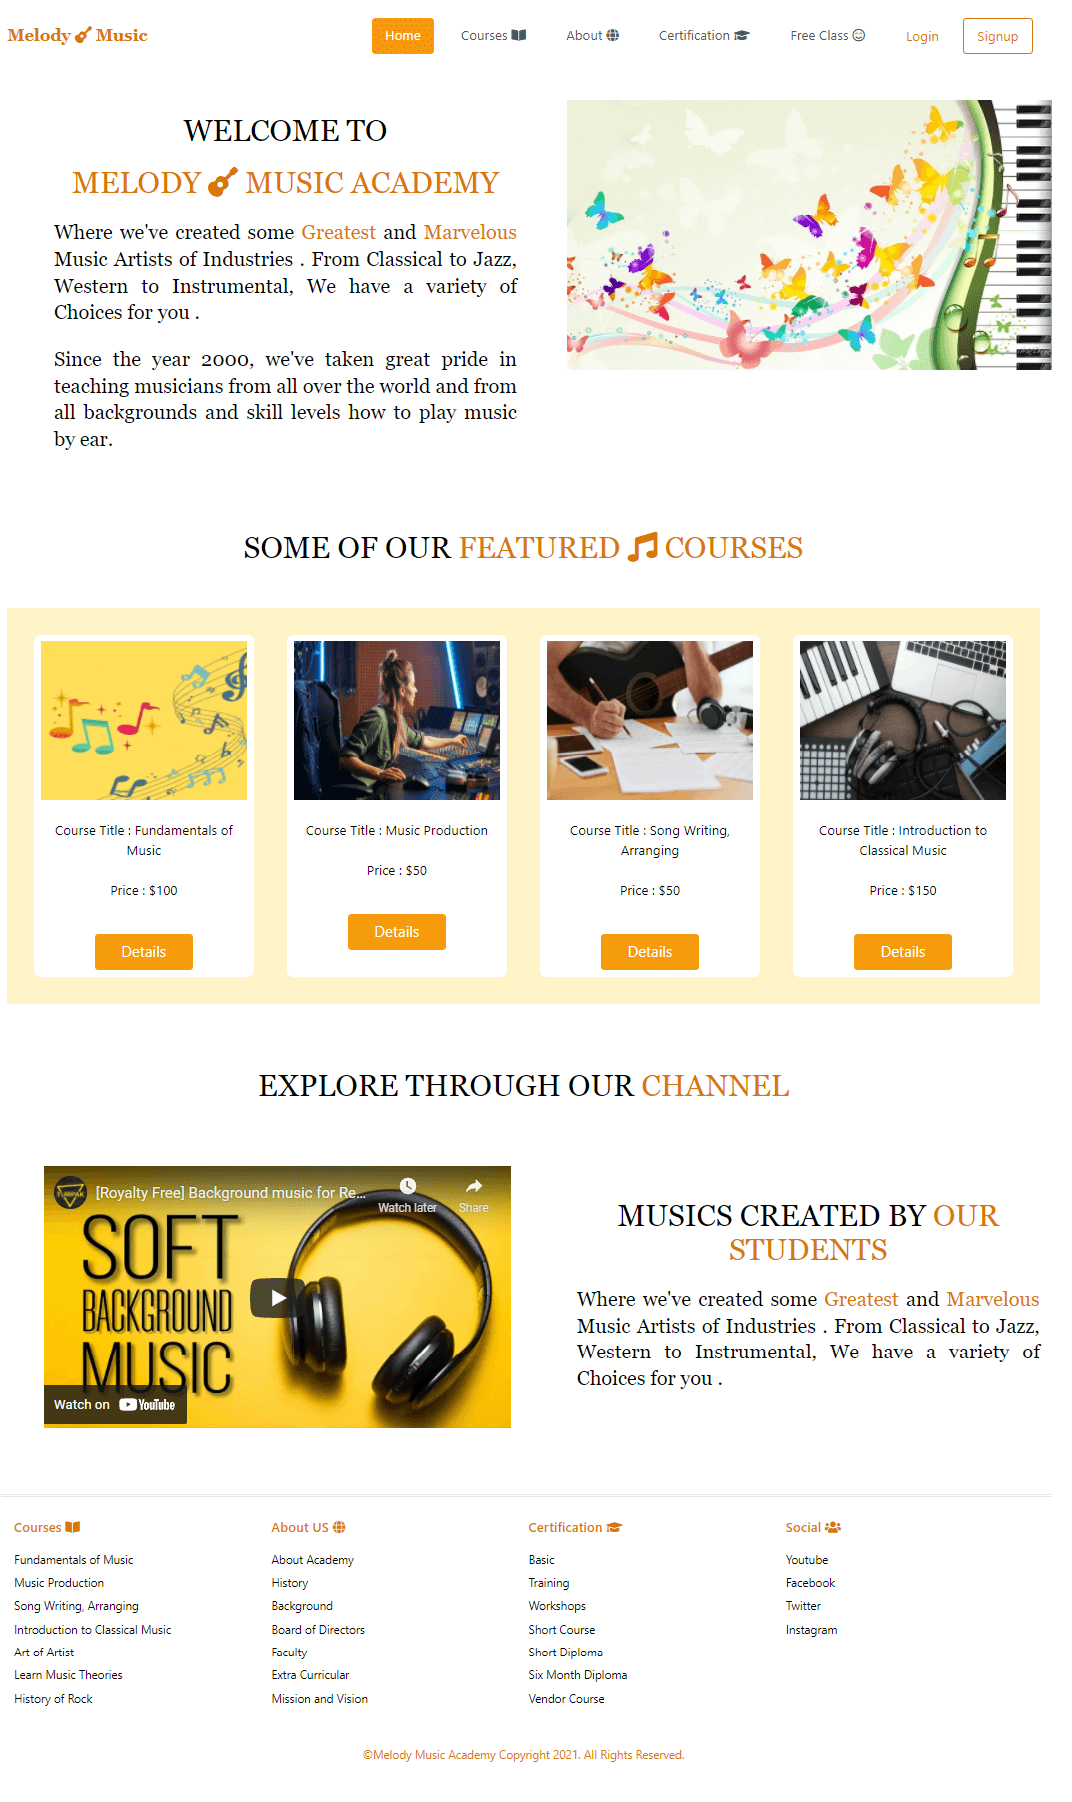
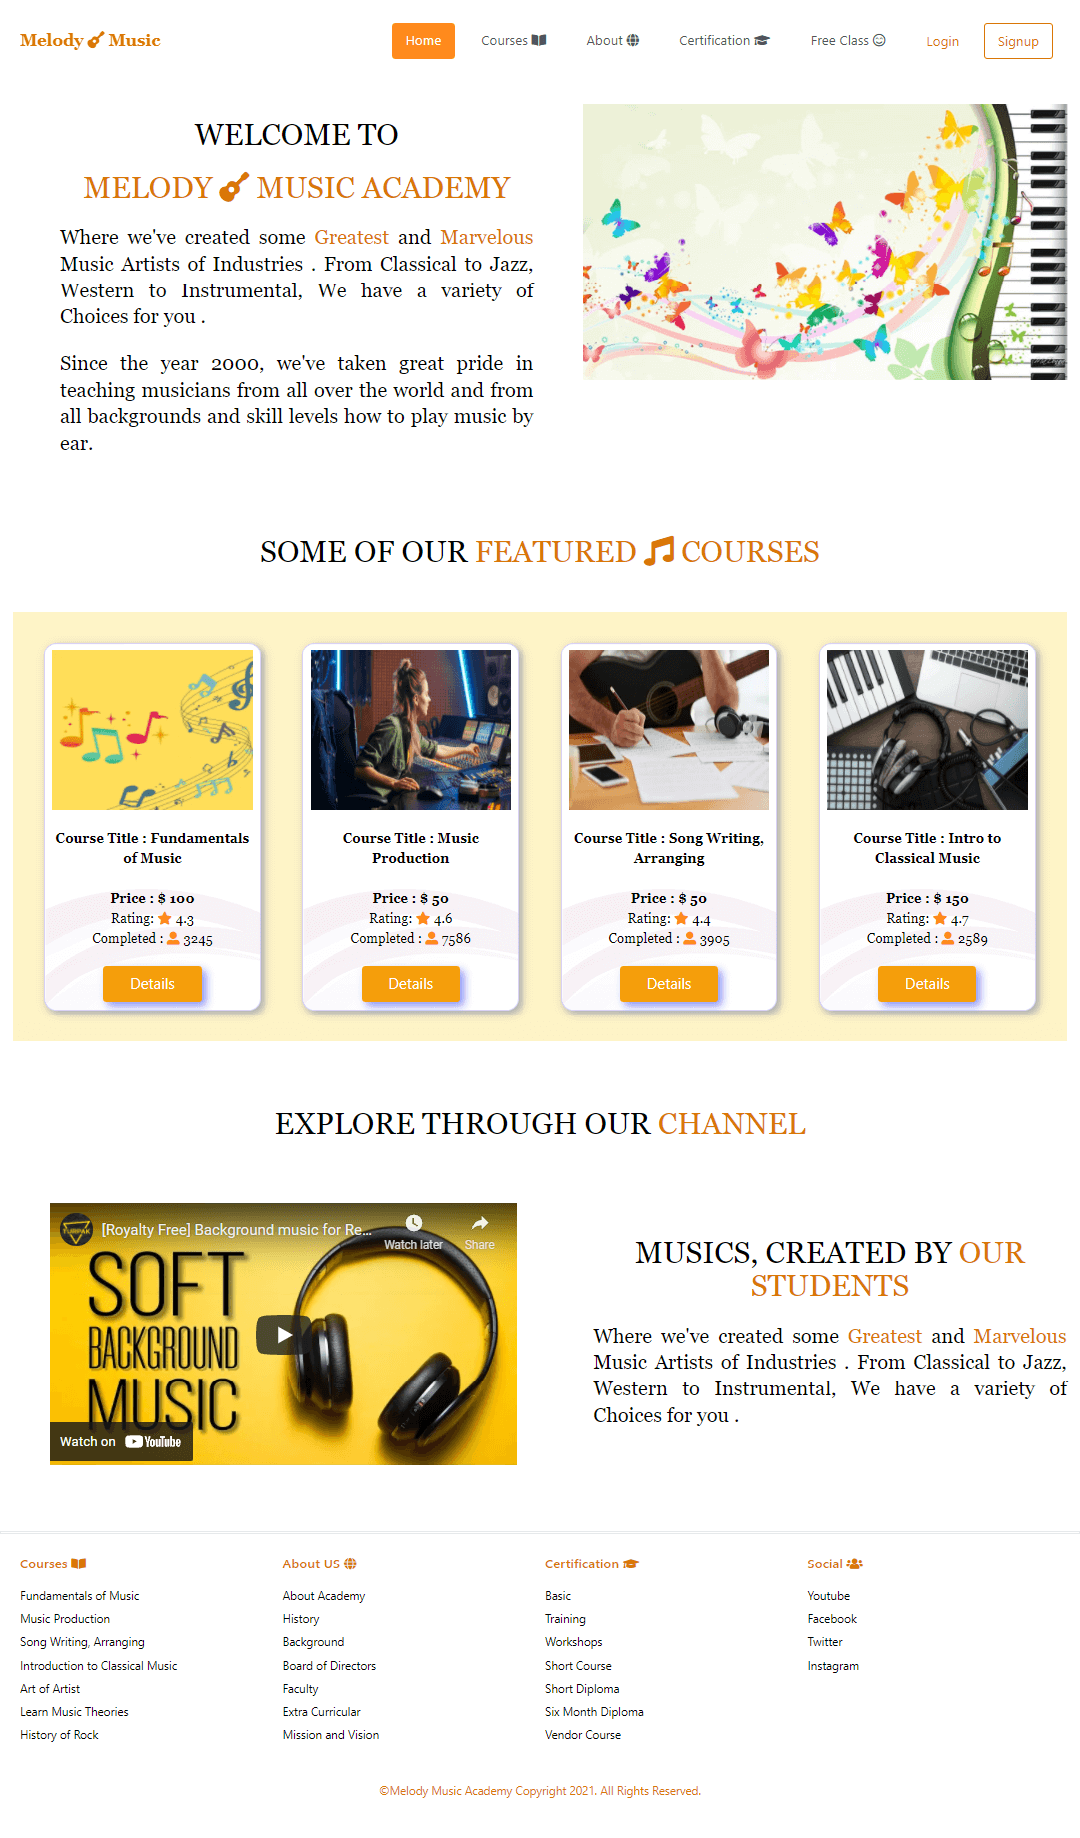
FInal Update, CSS Tuned, Animation Added

diff --git a/src/components/Certification/Certification.js b/src/components/Certification/Certification.js
@@ -1,4 +1,5 @@
 import React from 'react';
+import './Certification.css';
 import { NavLink } from 'react-router-dom';
 
 
@@ -17,30 +18,38 @@ const Certification = () => {
                         <div className="xl:w-1/4 lg:w-1/2 md:w-full px-8 py-6 border-l-2 border-gray-200 border-opacity-60 text-justify">
                             <h2 className="text-lg sm:text-xl text-gray-900 font-medium title-font mb-2">Short Courses</h2>
                             <p className="leading-relaxed text-base mb-4">Most of the Short Courses' duration are between 1.5 to 02 months , and Certificate Awarding Body is 'Melody Music Academy' itself .</p>
-                            <NavLink to={`/course/id`}>
-                                <button className="text-justify flex mx-auto mt-16 text-white bg-yellow-500 border-0 py-2 px-8 focus:outline-none hover:bg-yellow-600 rounded text-lg">Learn More</button>
-                            </NavLink>
+                            <div className="button">
+                                <NavLink to={`/course/{id}`}>
+                                    <button className="btn flex mx-auto mt-5 text-white bg-yellow-500 border-0 py-2 px-8 focus:outline-none hover:bg-yellow-600 rounded text-lg">Learn More</button>
+                                </NavLink>
+                            </div>
                         </div>
                         <div className="xl:w-1/4 lg:w-1/2 md:w-full px-8 py-6 border-l-2 border-gray-200 border-opacity-60 text-justify">
                             <h2 className="text-lg sm:text-xl text-gray-900 font-medium title-font mb-2">Workshops</h2>
-                            <p className="leading-relaxed text-base mb-4">All of the workshops' duration are between 01 to 02 days , and Certificate Awarding Body is 'Melody Music Academy' itself .</p>
-                            <NavLink to={`/course/id`}>
-                                <button className="flex mx-auto mt-16 text-white bg-yellow-500 border-0 py-2 px-8 focus:outline-none hover:bg-yellow-600 rounded text-lg">Learn More</button>
-                            </NavLink>
+                            <p className="leading-relaxed text-base mb-4">All of the workshops' duration are between 01 to 02 days , and Certificate Awarding Body is 'Melody Music Academy' itself and 'Online Music Class,USA'.</p>
+                            <div className="button">
+                                <NavLink to={`/course/{id}`}>
+                                    <button className="btn flex mx-auto mt-5 text-white bg-yellow-500 border-0 py-2 px-8 focus:outline-none hover:bg-yellow-600 rounded text-lg">Learn More</button>
+                                </NavLink>
+                            </div>
                         </div>
                         <div className="xl:w-1/4 lg:w-1/2 md:w-full px-8 py-6 border-l-2 border-gray-200 border-opacity-60">
                             <h2 className="text-lg sm:text-xl text-gray-900 font-medium title-font mb-2">Six Month Diploma</h2>
                             <p className="leading-relaxed text-base mb-4">Our Short Diplomas' duration are between 05 to 06 months , and Certificate Awarding Bodies are 'Melody Music Academy' and 'Online Music Class,USA' .</p>
-                            <NavLink to={`/course/id`}>
-                                <button className="flex mx-auto mt-16 text-white bg-yellow-500 border-0 py-2 px-8 focus:outline-none hover:bg-yellow-600 rounded text-lg">Learn More</button>
-                            </NavLink>
+                            <div className="button">
+                                <NavLink to={`/course/{id}`}>
+                                    <button className="btn flex mx-auto mt-5 text-white bg-yellow-500 border-0 py-2 px-8 focus:outline-none hover:bg-yellow-600 rounded text-lg">Learn More</button>
+                                </NavLink>
+                            </div>
                         </div>
                         <div className="xl:w-1/4 lg:w-1/2 md:w-full px-8 py-6 border-l-2 border-gray-200 border-opacity-60">
                             <h2 className="text-lg sm:text-xl text-gray-900 font-medium title-font mb-2">Training Session</h2>
-                            <p className="leading-relaxed text-base mb-4 text-justify">We arrange a number of Trainning Sessions over the time on different topics . Most of them are internationally Accrediated. </p>
-                            <NavLink to={`/course/id`}>
-                                <button className="flex mx-auto mt-16 text-white bg-yellow-500 border-0 py-2 px-8 focus:outline-none hover:bg-yellow-600 rounded text-lg">Learn More</button>
-                            </NavLink>
+                            <p className="leading-relaxed text-base mb-4 text-justify">We arrange a number of Trainning Sessions over the time on different topics . Most of them are internationally Accrediated and Well Renowned Everywhere </p>
+                            <div className="button">
+                                <NavLink to={`/course/{id}`}>
+                                    <button className="btn flex mx-auto mt-5 text-white bg-yellow-500 border-0 py-2 px-8 focus:outline-none hover:bg-yellow-600 rounded text-lg">Learn More</button>
+                                </NavLink>
+                            </div>
                         </div>
                     </div>
                 </div>

diff --git a/src/components/Home/Home.js b/src/components/Home/Home.js
@@ -12,7 +12,7 @@ const Home = () => {
             <section>
                 <div className='grid grid-cols-2 gap-6 mt-10 ml-10 text-justify'>
                     <div className='p-4 ml-4'>
-                        <h2 className='text-4xl uppercase text-center font-serif'> Welcome To</h2>
+                        <h2 className='text-4xl uppercase text-center font-serif'> <span>Welcome To</span></h2>
                         <br />
                         <h2 className='text-4xl uppercase text-center font-serif'> <span className='text-yellow-600 font-serif'>Melody  <i className="fas fa-guitar"></i> Music Academy</span></h2>
                         <br />
@@ -23,7 +23,7 @@ const Home = () => {
                         </h2>
                     </div>
                     <div className='ml-5'>
-                        <img src="https://i.ibb.co/8DP9Jb9/HD-wallpaper-butterfly-piano-concerto-ii-colorful-keys-music-bright-butterflies-abstract-piano.jpg" alt="" srcSet="" />
+                        <img src="https://i.ibb.co/nfD7rfj/wall-header.png" alt="" srcSet="" />
                     </div>
                 </div>
 
@@ -57,7 +57,7 @@ const Home = () => {
                     </div>
                     <div className='p-4 ml-4 text-justify'>
                         <br />
-                        <h2 className='text-4xl uppercase text-center font-serif'> Musics Created By <span className='text-yellow-600 font-serif'>Our Students</span></h2>
+                        <h2 className='text-4xl uppercase text-center font-serif'> Musics, Created By <span className='text-yellow-600 font-serif'>Our Students</span></h2>
                         <br />
                         <h2 className='text-2xl font-serif'>Where we've created some <span className='text-yellow-600 font-serif'>Greatest</span> and <span className='text-yellow-600 font-serif'>Marvelous </span>Music Artists of Industries . From Classical to Jazz, Western to Instrumental, We have a variety of Choices for you .
                         </h2>

diff --git a/src/components/Header/Header.css b/src/components/Header/Header.css
@@ -1,0 +1,9 @@
+.heartbeat{-webkit-animation:heartbeat 1.5s ease-in-out infinite both;animation:heartbeat 1.5s ease-in-out infinite both}
+/* ----------------------------------------------
+ * Generated by Animista on 2021-10-5 22:45:49
+ * Licensed under FreeBSD License.
+ * See http://animista.net/license for more info. 
+ * w: http://animista.net, t: @cssanimista
+ * ---------------------------------------------- */
+
+ @-webkit-keyframes heartbeat{from{-webkit-transform:scale(1);transform:scale(1);-webkit-transform-origin:center center;transform-origin:center center;-webkit-animation-timing-function:ease-out;animation-timing-function:ease-out}10%{-webkit-transform:scale(.91);transform:scale(.91);-webkit-animation-timing-function:ease-in;animation-timing-function:ease-in}17%{-webkit-transform:scale(.98);transform:scale(.98);-webkit-animation-timing-function:ease-out;animation-timing-function:ease-out}33%{-webkit-transform:scale(.87);transform:scale(.87);-webkit-animation-timing-function:ease-in;animation-timing-function:ease-in}45%{-webkit-transform:scale(1);transform:scale(1);-webkit-animation-timing-function:ease-out;animation-timing-function:ease-out}}@keyframes heartbeat{from{-webkit-transform:scale(1);transform:scale(1);-webkit-transform-origin:center center;transform-origin:center center;-webkit-animation-timing-function:ease-out;animation-timing-function:ease-out}10%{-webkit-transform:scale(.91);transform:scale(.91);-webkit-animation-timing-function:ease-in;animation-timing-function:ease-in}17%{-webkit-transform:scale(.98);transform:scale(.98);-webkit-animation-timing-function:ease-out;animation-timing-function:ease-out}33%{-webkit-transform:scale(.87);transform:scale(.87);-webkit-animation-timing-function:ease-in;animation-timing-function:ease-in}45%{-webkit-transform:scale(1);transform:scale(1);-webkit-animation-timing-function:ease-out;animation-timing-function:ease-out}}

diff --git a/src/components/KeyCourse/KeyCourse.js b/src/components/KeyCourse/KeyCourse.js
@@ -1,8 +1,10 @@
 import React from 'react';
 import { useHistory } from 'react-router';
+import './KeyCourse.css';
+import { NavLink } from 'react-router-dom';
 
 const KeyCourse = (props) => {
-    const { name, price, img, id } = props.keyCourse;
+    const { name, price, img, id, star, starCount } = props.keyCourse;
 
     const history = useHistory();
 
@@ -11,13 +13,23 @@ const KeyCourse = (props) => {
     }
 
     return (
-        <div className='text-center bg-white rounded-lg p-2'>
-            <img className='block ml-auto mr-auto w-96 h-48' src={img} alt="" />
+        <div className='text-center bg-white rounded-lg p-2 card-background'>
+            <img className='block ml-auto mr-auto w-96 h-48 ' src={img} alt="" />
             <br />
-            <h1>Course Title : {name}</h1>
+            <h1 className='font-serif'><strong>Course Title : {name}</strong></h1>
             <br />
-            <h2>Price : ${price}</h2>
-            <button className="flex mx-auto mt-10 text-white bg-yellow-500 border-0 py-2 px-8 focus:outline-none hover:bg-yellow-600 rounded text-lg">Details</button>
+            <div>
+                <h3 className='font-serif'><strong>Price : $ {price}</strong></h3>
+
+                <h3 className='font-serif'>Rating: <span><i className="fas fa-star" style={{ color: "#ff8b1d" }}></i> {star}</span></h3>
+                <h3 className='font-serif'>Completed : <span><i className="fas fa-user-alt" style={{ color: "#ff8b1d" }}></i> {starCount}</span></h3>
+            </div>
+            <div className="button">
+                <NavLink to={`/course/${id}`}>
+                    <button className="btn flex mx-auto mt-5 text-white bg-yellow-500 border-0 py-2 px-8 focus:outline-none hover:bg-yellow-600 rounded text-lg">Details</button>
+                </NavLink>
+            </div>
+
         </div>
     );
 };

diff --git a/src/components/Course/Course.js b/src/components/Course/Course.js
@@ -1,19 +1,26 @@
 import React from 'react';
+import './Course.css';
 import { NavLink } from 'react-router-dom';
 
 const Course = (props) => {
-    const { name, price, img, id } = props.course;
+    const { name, price, img, id, star, starCount } = props.course;
     return (
-        <div className='text-center bg-white rounded-lg p-2'>
+        <div className='text-center bg-white rounded-lg p-2 card-background'>
             <img className='block ml-auto mr-auto w-96 h-48 ' src={img} alt="" />
             <br />
-            <h1 className='font-serif'>Course Title : {name}</h1>
+            <h1 className='font-serif'><strong>Course Title : {name}</strong></h1>
             <br />
-            <h3 className='font-serif'>Price : ${price}</h3>
-            <br />
-            <NavLink to={`/course/${id}`}>
-                <button className="flex mx-auto mt-10 text-white bg-yellow-500 border-0 py-2 px-8 focus:outline-none hover:bg-yellow-600 rounded text-lg">Details</button>
-            </NavLink>
+            <div>
+                <h3 className='font-serif'><strong>Price : $ {price}</strong></h3>
+
+                <h3 className='font-serif'>Rating: <span><i className="fas fa-star" style={{ color: "#ff8b1d" }}></i> {star}</span></h3>
+                <h3 className='font-serif'>Completed : <span><i className="fas fa-user-alt" style={{ color: "#ff8b1d" }}></i> {starCount}</span></h3>
+            </div>
+            <div className="button">
+                <NavLink to={`/course/${id}`}>
+                    <button className="btn flex mx-auto mt-5 text-white bg-yellow-500 border-0 py-2 px-8 focus:outline-none hover:bg-yellow-600 rounded text-lg">Details</button>
+                </NavLink>
+            </div>
 
         </div>
     );

diff --git a/src/components/Header/Header.js b/src/components/Header/Header.js
@@ -1,4 +1,5 @@
 import React from 'react';
+import './Header.css';
 import { NavLink } from 'react-router-dom';
 
 const Header = () => {
@@ -14,7 +15,7 @@ const Header = () => {
                     <div className="container px-4 mx-auto md:flex md:items-center">
 
                         <div className="flex justify-between items-center">
-                            <NavLink to="#" className="font-bold text-xl text-yellow-600 font-serif">Melody <i className="fas fa-guitar"></i>  Music </NavLink>
+                            <NavLink to="#" className="heartbeat font-bold text-xl text-yellow-600 font-serif">Melody <i className="fas fa-guitar"></i>  Music </NavLink>
                             <button className="border border-solid border-gray-600 px-3 py-1 rounded text-gray-600 opacity-50 hover:opacity-75 md:hidden" id="navbar-toggle">
                                 <i className="fas fa-bars"></i>
                             </button>

diff --git a/src/components/KeyCourse/KeyCourse.css b/src/components/KeyCourse/KeyCourse.css
@@ -1,0 +1,22 @@
+.button{
+    display: flex;
+    justify-content: center;
+    align-items: center;
+    
+}
+.card-background{
+    display: flex;
+    flex-direction: column;
+    justify-content: space-around;
+    
+    background-image: url(https://i.ibb.co/G091YnS/texture-diff.png);
+    transition: 0.5s;
+    margin: 5px;
+    border-radius: 15px;
+    border: 2px solid rgba(90, 57, 207, 0.233);
+    background-color: white;
+    box-shadow: 4px 4px 10px rgb(172, 174, 175);
+}
+.btn{
+    box-shadow: 5px 5px 10px rgb(139, 149, 247);
+}

diff --git a/src/components/Course/Course.css b/src/components/Course/Course.css
@@ -1,0 +1,21 @@
+.button{
+    display: flex;
+    justify-content: center;
+    align-items: center;
+}
+.card-background{
+    display: flex;
+    flex-direction: column;
+    justify-content: space-around;
+    
+    background-image: url(https://i.ibb.co/G091YnS/texture-diff.png);
+    transition: 0.5s;
+    margin: 5px;
+    border-radius: 15px;
+    border: 2px solid rgba(90, 57, 207, 0.233);
+    background-color: white;
+    box-shadow: 4px 4px 10px rgb(172, 174, 175);
+}
+.btn{
+    box-shadow: 5px 5px 10px rgb(139, 149, 247);
+}

diff --git a/src/components/Certification/Certification.css b/src/components/Certification/Certification.css
@@ -1,0 +1,5 @@
+.button{
+    display: flex;
+    justify-content: center;
+    align-items: center;    
+}

diff --git a/README.md b/README.md
@@ -1,6 +1,10 @@
 # Simple Page of 'Educational Service' (Melody Music Academy) - Assignment (Milestone - 9)
 
-* This Assignment was mainly on `React Router` along with `Custom 404 Error Page`
+* This Assignment is mainly on `React Router` along with `Custom 404 Error Page`
+
+* As a Basic `React Router` Assignment , We had to Put 04 (Four) Routes (minimum)
+
+* Simple `Animation` is added in Home (Navabar) button. 
 
 * [Click Here for Live Link / Website  (Netlify)](https://assignment-music-academy.netlify.app/)
 
